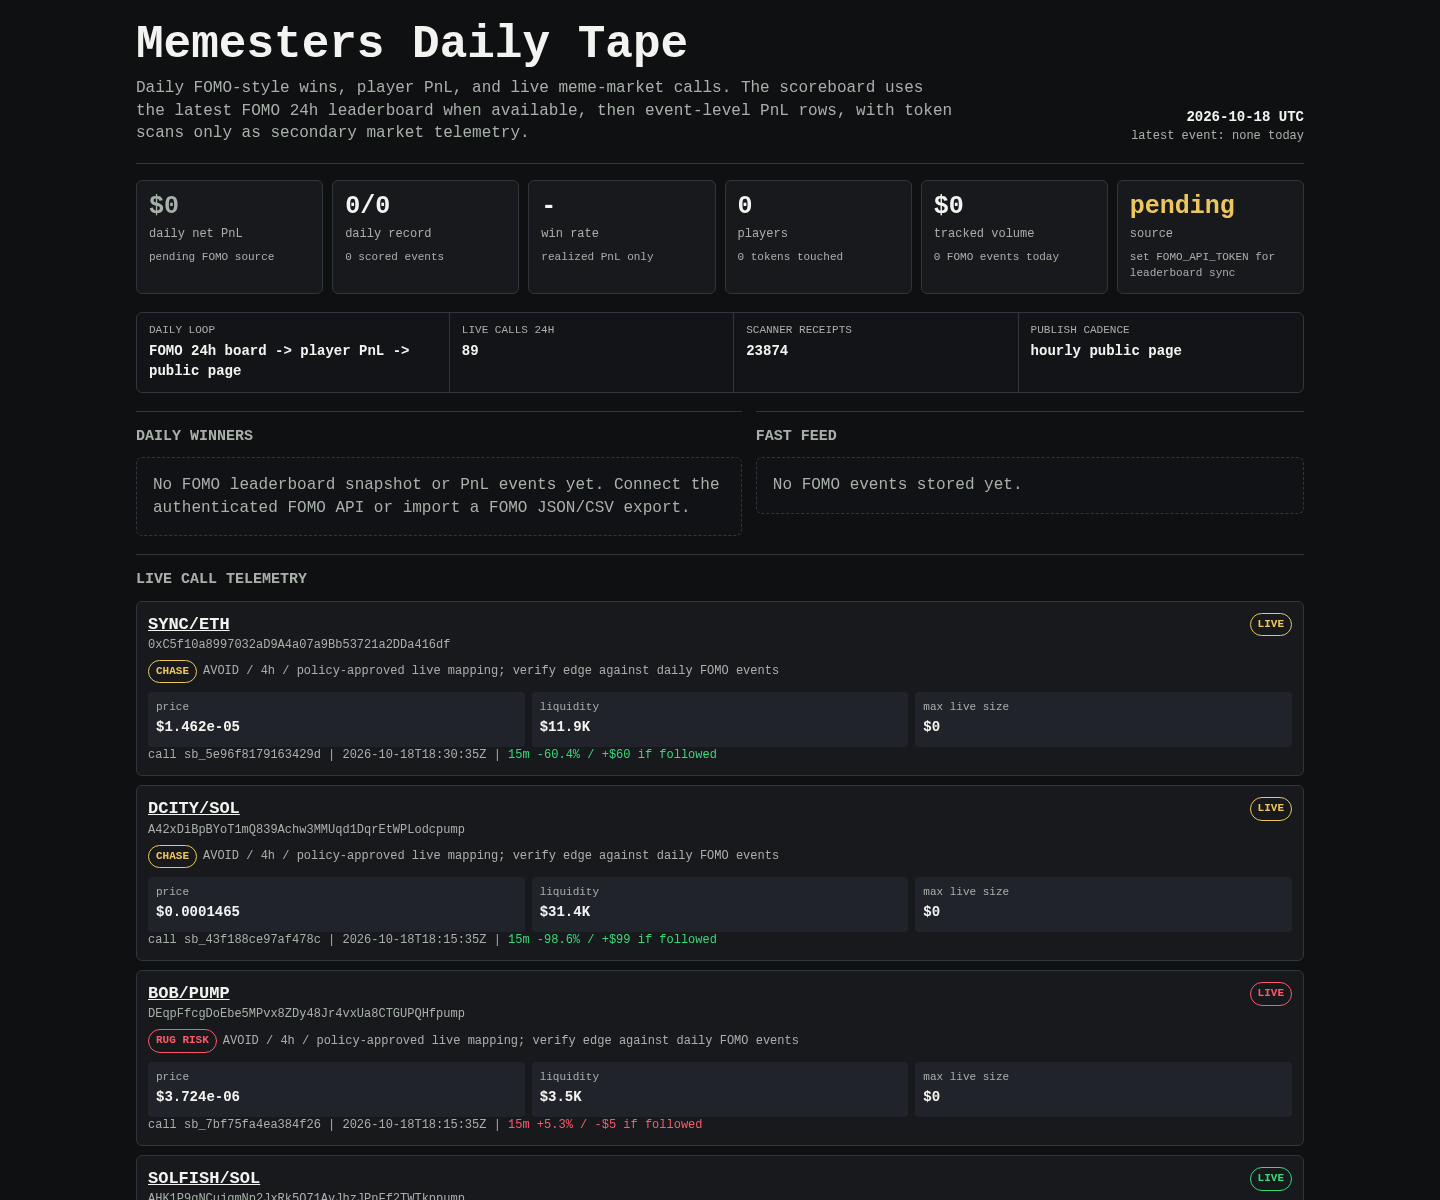
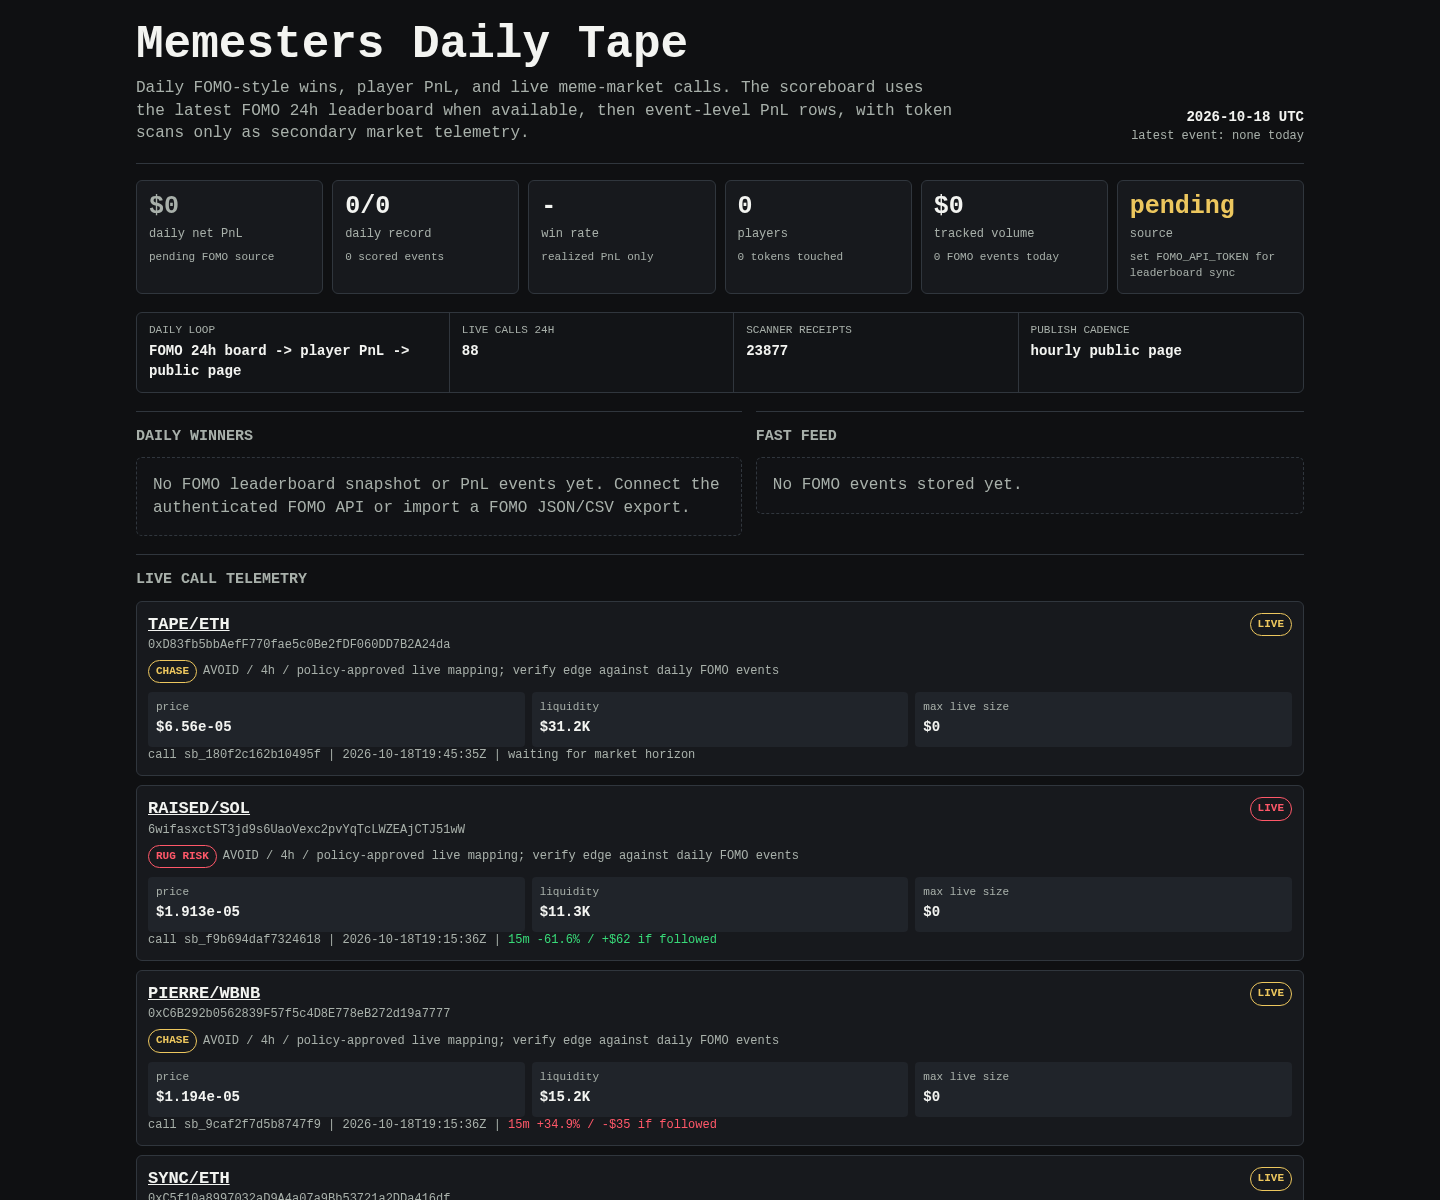
Update Memesters scoreboard

diff --git a/memesters/index.html b/memesters/index.html
@@ -149,8 +149,8 @@
 
     <div class="rail" aria-label="live operating loop">
       <div><span>daily loop</span><b>FOMO 24h board -> player PnL -> public page</b></div>
-      <div><span>live calls 24h</span><b>89</b></div>
-      <div><span>scanner receipts</span><b>23874</b></div>
+      <div><span>live calls 24h</span><b>88</b></div>
+      <div><span>scanner receipts</span><b>23877</b></div>
       <div><span>publish cadence</span><b>hourly public page</b></div>
     </div>
 
@@ -171,6 +171,69 @@
     <article class="receipt">
       <div class="receipt-head">
         <div>
+          <div class="pair"><a href="https://dexscreener.com/ethereum/0xd9baf444f65051d7d32ab9fbc140534d869b48a1af273c82aa2aa95127fe42fe">TAPE/ETH</a></div>
+          <div class="addr">0xD83fb5bbAefF770fae5c0Be2fDF060DD7B2A24da</div>
+          <div class="addr policy-line">
+            <span class="badge chase">CHASE</span>
+            <span>AVOID / 4h / policy-approved live mapping; verify edge against daily FOMO events</span>
+          </div>
+        </div>
+        <span class="badge chase">LIVE</span>
+      </div>
+      <div class="receipt-grid">
+        <div class="kv"><span>price</span><b>$6.56e-05</b></div>
+        <div class="kv"><span>liquidity</span><b>$31.2K</b></div>
+        <div class="kv"><span>max live size</span><b>$0</b></div>
+      </div>
+      <div class="outcomes">call sb_180f2c162b10495f | 2026-10-18T19:45:35Z | waiting for market horizon</div>
+    </article>
+    
+
+    <article class="receipt">
+      <div class="receipt-head">
+        <div>
+          <div class="pair"><a href="https://dexscreener.com/solana/bucfkh9dgcqlhkf9hyydkhzhsvxsaxm3sumltzx9alto">RAISED/SOL</a></div>
+          <div class="addr">6wifasxctST3jd9s6UaoVexc2pvYqTcLWZEAjCTJ51wW</div>
+          <div class="addr policy-line">
+            <span class="badge rug-risk">RUG RISK</span>
+            <span>AVOID / 4h / policy-approved live mapping; verify edge against daily FOMO events</span>
+          </div>
+        </div>
+        <span class="badge rug-risk">LIVE</span>
+      </div>
+      <div class="receipt-grid">
+        <div class="kv"><span>price</span><b>$1.913e-05</b></div>
+        <div class="kv"><span>liquidity</span><b>$11.3K</b></div>
+        <div class="kv"><span>max live size</span><b>$0</b></div>
+      </div>
+      <div class="outcomes">call sb_f9b694daf7324618 | 2026-10-18T19:15:36Z | <span class="positive">15m -61.6% / +$62 if followed</span></div>
+    </article>
+    
+
+    <article class="receipt">
+      <div class="receipt-head">
+        <div>
+          <div class="pair"><a href="https://dexscreener.com/bsc/0xaff560f712f4bc5c747bc27a79ebf56c3ddaec2a">PIERRE/WBNB</a></div>
+          <div class="addr">0xC6B292b0562839F57f5c4D8E778eB272d19a7777</div>
+          <div class="addr policy-line">
+            <span class="badge chase">CHASE</span>
+            <span>AVOID / 4h / policy-approved live mapping; verify edge against daily FOMO events</span>
+          </div>
+        </div>
+        <span class="badge chase">LIVE</span>
+      </div>
+      <div class="receipt-grid">
+        <div class="kv"><span>price</span><b>$1.194e-05</b></div>
+        <div class="kv"><span>liquidity</span><b>$15.2K</b></div>
+        <div class="kv"><span>max live size</span><b>$0</b></div>
+      </div>
+      <div class="outcomes">call sb_9caf2f7d5b8747f9 | 2026-10-18T19:15:36Z | <span class="negative">15m +34.9% / -$35 if followed</span></div>
+    </article>
+    
+
+    <article class="receipt">
+      <div class="receipt-head">
+        <div>
           <div class="pair"><a href="https://dexscreener.com/ethereum/0x28a6442c3ba326ae39e2d4b3c804ed3d0b4205667b0fe4fd7c62e2aedf1d2225">SYNC/ETH</a></div>
           <div class="addr">0xC5f10a8997032aD9A4a07a9Bb53721a2DDa416df</div>
           <div class="addr policy-line">
@@ -185,7 +248,7 @@
         <div class="kv"><span>liquidity</span><b>$11.9K</b></div>
         <div class="kv"><span>max live size</span><b>$0</b></div>
       </div>
-      <div class="outcomes">call sb_5e96f8179163429d | 2026-10-18T18:30:35Z | <span class="positive">15m -60.4% / +$60 if followed</span></div>
+      <div class="outcomes">call sb_5e96f8179163429d | 2026-10-18T18:30:35Z | <span class="positive">15m -60.4% / +$60 if followed</span> | <span class="positive">1h -64.1% / +$64 if followed</span></div>
     </article>
     
 
@@ -206,7 +269,7 @@
         <div class="kv"><span>liquidity</span><b>$31.4K</b></div>
         <div class="kv"><span>max live size</span><b>$0</b></div>
       </div>
-      <div class="outcomes">call sb_43f188ce97af478c | 2026-10-18T18:15:35Z | <span class="positive">15m -98.6% / +$99 if followed</span></div>
+      <div class="outcomes">call sb_43f188ce97af478c | 2026-10-18T18:15:35Z | <span class="positive">15m -98.6% / +$99 if followed</span> | <span class="positive">1h -98.6% / +$99 if followed</span></div>
     </article>
     
 
@@ -227,7 +290,7 @@
         <div class="kv"><span>liquidity</span><b>$3.5K</b></div>
         <div class="kv"><span>max live size</span><b>$0</b></div>
       </div>
-      <div class="outcomes">call sb_7bf75fa4ea384f26 | 2026-10-18T18:15:35Z | <span class="negative">15m +5.3% / -$5 if followed</span></div>
+      <div class="outcomes">call sb_7bf75fa4ea384f26 | 2026-10-18T18:15:35Z | <span class="negative">15m +5.3% / -$5 if followed</span> | <span class="negative">1h +2.2% / -$2 if followed</span></div>
     </article>
     
 
@@ -248,7 +311,7 @@
         <div class="kv"><span>liquidity</span><b>$14.3K</b></div>
         <div class="kv"><span>max live size</span><b>$80</b></div>
       </div>
-      <div class="outcomes">call sb_79347c3f28cf4fe1 | 2026-10-18T18:15:35Z | <span class="negative">15m -15.8% / -$16 if followed</span></div>
+      <div class="outcomes">call sb_79347c3f28cf4fe1 | 2026-10-18T18:15:35Z | <span class="negative">15m -15.8% / -$16 if followed</span> | <span class="negative">1h -14.1% / -$14 if followed</span></div>
     </article>
     
 
@@ -269,7 +332,7 @@
         <div class="kv"><span>liquidity</span><b>$3.6K</b></div>
         <div class="kv"><span>max live size</span><b>$0</b></div>
       </div>
-      <div class="outcomes">call sb_da40b9a0fde04cd0 | 2026-10-18T18:15:35Z | <span class="negative">15m +1.3% / -$1 if followed</span></div>
+      <div class="outcomes">call sb_da40b9a0fde04cd0 | 2026-10-18T18:15:35Z | <span class="negative">15m +1.3% / -$1 if followed</span> | <span class="negative">1h +1.3% / -$1 if followed</span></div>
     </article>
     
 
@@ -290,7 +353,7 @@
         <div class="kv"><span>liquidity</span><b>$11.7K</b></div>
         <div class="kv"><span>max live size</span><b>$0</b></div>
       </div>
-      <div class="outcomes">call sb_a3cfba017a4642a5 | 2026-10-18T18:15:35Z | <span class="positive">15m -9.5% / +$9 if followed</span></div>
+      <div class="outcomes">call sb_a3cfba017a4642a5 | 2026-10-18T18:15:35Z | <span class="positive">15m -9.5% / +$9 if followed</span> | <span class="positive">1h -22.1% / +$22 if followed</span></div>
     </article>
     
 
@@ -311,70 +374,7 @@
         <div class="kv"><span>liquidity</span><b>$5.1K</b></div>
         <div class="kv"><span>max live size</span><b>$0</b></div>
       </div>
-      <div class="outcomes">call sb_384c00e7f27c4199 | 2026-10-18T18:00:36Z | <span class="positive">15m -37.0% / +$37 if followed</span></div>
-    </article>
-    
-
-    <article class="receipt">
-      <div class="receipt-head">
-        <div>
-          <div class="pair"><a href="https://dexscreener.com/robinhood/0x55c7f8fb603592c8351387b5d1437575e30eabc6618f228cfd307f4a5744821a">LENVRA/ETH</a></div>
-          <div class="addr">0x957A4122Ef075A0De26e6e7472C037E75b829A08</div>
-          <div class="addr policy-line">
-            <span class="badge early">EARLY</span>
-            <span>BUY / 1h / policy-approved live mapping; verify edge against daily FOMO events</span>
-          </div>
-        </div>
-        <span class="badge early">LIVE</span>
-      </div>
-      <div class="receipt-grid">
-        <div class="kv"><span>price</span><b>$5.052e-05</b></div>
-        <div class="kv"><span>liquidity</span><b>$20.3K</b></div>
-        <div class="kv"><span>max live size</span><b>$25</b></div>
-      </div>
-      <div class="outcomes">call sb_87b83afc1d1e43ff | 2026-10-18T17:30:35Z | <span class="positive">15m +49.6% / +$50 if followed</span> | <span class="positive">1h +52.4% / +$52 if followed</span></div>
-    </article>
-    
-
-    <article class="receipt">
-      <div class="receipt-head">
-        <div>
-          <div class="pair"><a href="https://dexscreener.com/solana/jajtppfczhbd7vxmc7mxu5helzqnolcsh98e4maztv6a">HelloWorld/SOL</a></div>
-          <div class="addr">Dz8inTcgp22n9yQ92dMG8168Wi79ANT2z3oehtdMpump</div>
-          <div class="addr policy-line">
-            <span class="badge early">EARLY</span>
-            <span>BUY / 1h / policy-approved live mapping; verify edge against daily FOMO events</span>
-          </div>
-        </div>
-        <span class="badge early">LIVE</span>
-      </div>
-      <div class="receipt-grid">
-        <div class="kv"><span>price</span><b>$7.13e-05</b></div>
-        <div class="kv"><span>liquidity</span><b>$21.5K</b></div>
-        <div class="kv"><span>max live size</span><b>$258</b></div>
-      </div>
-      <div class="outcomes">call sb_71b7e1314f874b1f | 2026-10-18T16:45:37Z | <span class="negative">15m -76.6% / -$77 if followed</span> | <span class="negative">1h -77.3% / -$77 if followed</span></div>
-    </article>
-    
-
-    <article class="receipt">
-      <div class="receipt-head">
-        <div>
-          <div class="pair"><a href="https://dexscreener.com/robinhood/0x9dc2fdffd31777743946a36e43bab6269c7ecdb6">MEGA/WETH</a></div>
-          <div class="addr">0x4Bb78f36164f382bAEc864Bef60f7Cdc21dE6742</div>
-          <div class="addr policy-line">
-            <span class="badge chase">CHASE</span>
-            <span>AVOID / 4h / policy-approved live mapping; verify edge against daily FOMO events</span>
-          </div>
-        </div>
-        <span class="badge chase">LIVE</span>
-      </div>
-      <div class="receipt-grid">
-        <div class="kv"><span>price</span><b>$0.0002521</b></div>
-        <div class="kv"><span>liquidity</span><b>$88.3K</b></div>
-        <div class="kv"><span>max live size</span><b>$0</b></div>
-      </div>
-      <div class="outcomes">call sb_0744abdf1fb84e87 | 2026-10-18T16:30:33Z | <span class="positive">15m -19.5% / +$19 if followed</span> | <span class="positive">1h -21.6% / +$22 if followed</span></div>
+      <div class="outcomes">call sb_384c00e7f27c4199 | 2026-10-18T18:00:36Z | <span class="positive">15m -37.0% / +$37 if followed</span> | <span class="positive">1h -37.0% / +$37 if followed</span></div>
     </article>
     
     </section>
